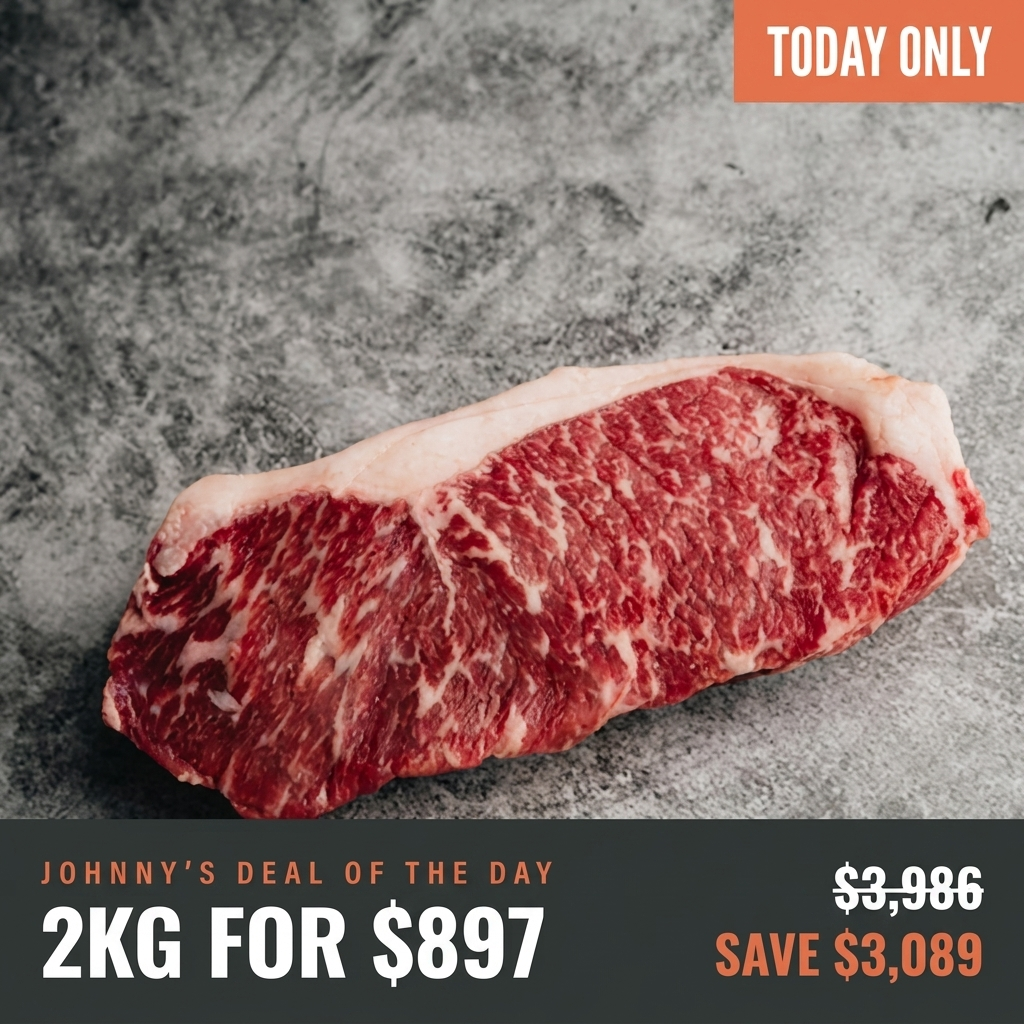
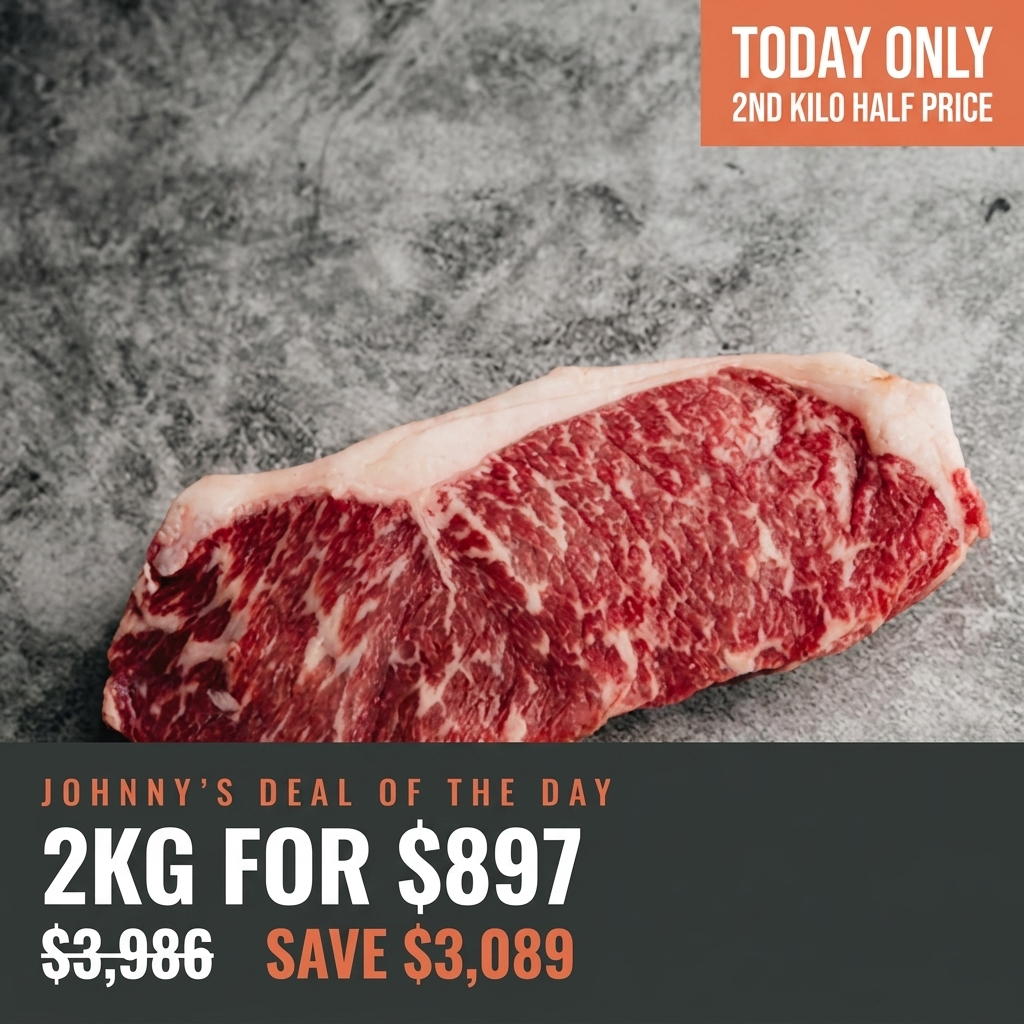
Update: Steak King DotD badges reserve the brand overlay corners
David asked for the top left and bottom right to come back empty - Steak
King drop their own discount roundel and certification logo there, and the
ACRES logo was landing on top of our struck-through price.

The value stack moves out of the bottom right and runs under the headline
inside the left 62%. Ribeye buy-2-get-1 goes to $996 per David's call on
7 Aug, which restores the paired mechanic read against the 3 Aug flash.

12 of 21 badges rebuilt; the other 9 keep the old layout for now.

diff --git a/steak-king/johnnys-deal-planner.html b/steak-king/johnnys-deal-planner.html
@@ -105,6 +105,12 @@
   .pd-val{list-style:none;margin:0 0 13px;padding:0;border-left:2px solid var(--coral)}
   .pd-val li{font-size:14.5px;line-height:1.45;color:var(--ink);font-weight:600;padding:3px 0 3px 11px}
   .pd-sell{font-size:14px;line-height:1.62;color:var(--ink-2);margin:0}
+  .ban-line{display:flex;align-items:center;gap:var(--s4);background:var(--coral);color:#fff;padding:9px 14px;margin-bottom:6px;flex-wrap:wrap}
+  .ban-line:last-child{margin-bottom:0}
+  .ban-txt b{display:block;font-family:'Fjalla One',sans-serif;font-size:16px;letter-spacing:.01em;line-height:1.15}
+  .ban-txt span{display:block;font-size:12px;opacity:.9;margin-top:1px}
+  .ban-ui{margin-left:auto;font-family:'Fjalla One',sans-serif;font-size:16px;letter-spacing:.06em;white-space:nowrap;flex:none}
+  .ban-cta{font-family:'Fjalla One',sans-serif;font-size:11px;letter-spacing:.06em;background:var(--ink);color:#fff;padding:8px 12px;white-space:nowrap;flex:none}
   .hero{border:1px solid var(--line);background:var(--card);margin-bottom:var(--s3)}
   .hero-img{padding:13px;background:var(--soft);display:flex;justify-content:center}
   .hero-img img{max-width:360px;width:100%;height:auto;display:block;border:1px solid var(--line)}
@@ -381,6 +387,8 @@
   <div class="wrap">
     <footer>
       <strong>Moving a deal:</strong> grab the handle on the left of any row and drag it up or down the table. Everything in between shifts along by one to close the gap &mdash; drag Tuesday's deal down to Friday and Wednesday, Thursday and Friday each move up a day. A deal pushed past the last available day drops into <em>Not scheduled</em> at the bottom, and can be dragged back in at any time. Moves are shared with everyone on this page within fifteen seconds, and sign-off and comments travel with the deal, not the date &mdash; approve something on the 5th, move it to the 12th, and it is still approved.<br><br>
+      <strong>How a deal is named:</strong> the customer meets the deal three times before they meet the price &mdash; on the homepage bar, on the collection tile, and at the top of the PDP &mdash; and all three now say the same thing in the same words. The rule is that the <em>mechanic comes first and the product comes second</em>. A shopper reading nothing but the product title has to know what they get and why it is a deal: <em>Buy 1kg Organic Angus Striploin, Get the 2nd Half Price</em>, not <em>The Organic Double</em>. Where there is no mechanic to name &mdash; a straight price drop or a bundle &mdash; the unit of sale leads instead, because the confusion that costs us the sale is a $735 price tag next to a photograph of one steak when the deal is two kilos. The headline on this page is now that same customer-facing line, so what David signs off is what the shopper reads. Prices stay out of the PDP title where Shopify already shows them; the badge carries the strike-through, the title carries the mechanic, the banner carries both.<br><br>
+      <strong>The homepage banner</strong> is where the programme actually lives &mdash; the site does the daily beat, email supports it once or twice a week. The bar itself is fixed furniture: the <em>Johnny's Deal of The Day</em> subline, the countdown and the CLAIM NOW button never change, and they sit directly above the free-shipping line so the two mechanics reinforce each other on every pageview. The only thing written each day is the headline, and it has room for about <strong>forty-five characters</strong> before it wraps on mobile. So it carries the mechanic in caps and the cut after it &mdash; <em>BUY 1KG GET 2ND 50% OFF on Organic Striploin</em> &mdash; and nothing else. No <em>today only</em>, because the countdown already says it. And it leads on <strong>the value, not the price</strong> &mdash; the percentage off RRP, which is the number that earns the click and the language the Steak King catalogue has always used (<em>50% Off &mdash;</em>, <em>65% Off &mdash;</em>). Percentages are floored, never rounded up, so the bar can never claim more than the tile. The four buy-one-get-second deals are the exception: their mechanic is already a percentage, and two competing percentages in one line reads as a mistake, so those keep the mechanic. <strong>The bar percentage and the tile ribbon are calculated from different places</strong> &mdash; ours from the compare-at in this plan, the tile's from whatever compare-at is actually set on the deal clone &mdash; so if they are not set to the same number the two disagree on screen. As at 6 August the live Organic Striploin clone carries a $980 compare-at against this plan's $1,960, and the tile is showing 25% where it should show 62%. Each deal ships its headline in the build spec, and the ladder days ship three, swapped at 12:00 and 17:00.<br><br>
       <strong>Hero images:</strong> each deal ships with its PDP hero already built &mdash; the real product photograph with the value laid over it, the deal price against the <strong>RRP</strong> and what you save. Compare-at is the product's maximum RRP in Shopify &mdash; not the everyday selling price &mdash; so the strike-through on the badge, the strike-through on the PDP and the value line in the copy all quote the same number. Copy it to the clipboard or download it straight from the deal view. They are generated from the plan itself, so the figures on a badge can never disagree with the figures on the page: run <span class="kbd">python3 scripts/build-deal-badges.py</span> after a price changes and the affected heroes rebuild. Headlines and the corner tab live in <span class="kbd">scripts/badge-copy.json</span>.<br><br><strong>Six SKUs still need an RRP set in Shopify.</strong> They carry no compare-at price at all, so their deals currently run on a <em>2&times; everyday</em> placeholder rather than a real RRP: Organic Grass Fed Angus Striploin 1kg (drives the Organic Double, its 20 Aug recycle and the 24 Aug ladder), Black Angus Bone-in Ribeye OP Rib Roast, Frozen Wagyu Diced Beef 1kg, Frozen Australian Lamb Shanks 2.2kg, MSC Certified Atlantic Cod Fillet 1kg and Australian Yellowfin Tuna Steaks. David to set a real RRP on each, then the compare figure and the hero badge both need rebuilding.<br><br>
       <strong>How to add a month:</strong> open this file and append one entry to the <span class="kbd">PLAN</span> object at the top of the script &mdash; a label, the block rows, and one entry per day, each with its own <span class="kbd">id</span>. Nothing else needs touching; the calendar, lookahead and build specs all read from it. The dates in <span class="kbd">PLAN</span> are only the starting order &mdash; once anyone drags a row, the running order is whatever the shared backend says it is.<br><br>
       <strong>Keyboard:</strong> <span class="kbd">&larr;</span> <span class="kbd">&rarr;</span> move a day &middot; <span class="kbd">T</span> jump to today &middot; tab to a drag handle and use <span class="kbd">&uarr;</span> <span class="kbd">&darr;</span> to move a deal without dragging. Every date is linkable &mdash; the URL updates as you click, so you can paste someone straight onto a specific day.<br><br>
@@ -422,7 +430,7 @@ const PLAN = {
     ],
     days: {
       '2026-08-03':{
-        id:'ribeye-drop', title:'The Ribeye Drop', mech:'Quantity Flash', tag:'proven',
+        id:'ribeye-drop', title:'3kg of USDA Choice Ribeye for $1,000', mech:'Quantity Flash', tag:'proven',
         img:IMG('files/USDAChoiceRibeye2.jpg'),
         price:'3kg for $1,000', vs:'USDA Choice Ribeye · $333/kg vs $448/kg everyday', margin:'38% margin',
         lines:[['Stock','1,240 units. <strong>Full-list send</strong> + site hero + WhatsApp.']],
@@ -432,10 +440,10 @@ const PLAN = {
           value:["RRP $2,688. You're $1,688 up.",
                  "Works out at $333 a kilo.",
                  "Back to full price at midnight."],
-          sell:"USDA Choice is what most steakhouses buy. Well marbled, hard to ruin, thick enough that you get a proper crust and the middle stays pink. It comes as three separate kilos, so cook one tonight and put the rest in the freezer."}, source:'Chilled USDA Choice Ribeye 1kg', clone:'Quantity Flash: USDA Choice Ribeye 3 × 1kg', price:'$1,000', compare:'$2,688'}
+          sell:"USDA Choice is what most steakhouses buy. Well marbled, hard to ruin, thick enough that you get a proper crust and the middle stays pink. It comes as three separate kilos, so cook one tonight and put the rest in the freezer."}, source:'Chilled USDA Choice Ribeye 1kg', banner:['62% OFF 3kg of USDA Choice Ribeye'], clone:'3kg of USDA Choice Ribeye — $1,000 Today Only', price:'$1,000', compare:'$2,688'}
       },
       '2026-08-04':{
-        id:'lamb-rack-flash', title:'The Lamb Rack Flash', mech:'Quantity Flash',
+        id:'lamb-rack-flash', title:'Three Lamb Racks for $799', mech:'Quantity Flash',
         img:IMG('files/image_11.png'),
         price:'3 racks (2.4kg) for $799', vs:'Mount Schanck Frenched Lamb Rack 800g · $333/kg vs $435/kg', margin:'46% margin',
         lines:[['Stock','321 units.']],
@@ -444,10 +452,10 @@ const PLAN = {
           value:["RRP $2,088. You're $1,289 up.",
                  "$333 a kilo across the three racks.",
                  "Tomorrow it's back."],
-          sell:"Mount Schanck, and they come Frenched, so the bones are already scraped clean. Nothing to do but season them and get them in the oven. One rack is four decent cutlets. Three will do a table of twelve without anyone going short."}, source:'Chilled Mount Schanck Bone-In Frenched Lamb Rack Cap Off 800g', clone:'Quantity Flash: Frenched Lamb Rack × 3', price:'$799', compare:'$2,088'}
+          sell:"Mount Schanck, and they come Frenched, so the bones are already scraped clean. Nothing to do but season them and get them in the oven. One rack is four decent cutlets. Three will do a table of twelve without anyone going short."}, source:'Chilled Mount Schanck Bone-In Frenched Lamb Rack Cap Off 800g', banner:['61% OFF 3 Frenched Lamb Racks'], clone:'3 Frenched Lamb Racks, 2.4kg — $799 Today Only', price:'$799', compare:'$2,088'}
       },
       '2026-08-05':{
-        id:'organic-double', title:'The Organic Double', mech:'Buy 1, Get 2nd 50%', tag:'proven',
+        id:'organic-double', title:'Buy a Kilo of Organic Striploin, Get the Second Half Price', mech:'Buy 1, Get 2nd 50%', tag:'proven',
         img:IMG('files/acresstriploin.png'),
         price:'2kg for $735', vs:'Organic Grass Fed Angus Striploin · $368/kg vs $490/kg · + free steak knives', margin:'60% margin',
         lines:[['Stock','824 units.']],
@@ -457,10 +465,10 @@ const PLAN = {
                  "$368 a kilo.",
                  "Steak knives free with anything you order today.",
                  "Ends midnight."],
-          sell:"Certified organic and grass fed, so it's leaner than the grain fed stuff and tastes more like beef. Don't cook it slow. Hot pan, quick sear, then leave it alone for five minutes before you cut into it."}, source:'Chilled Organic Grass Fed Angus Striploin 1kg', clone:'B1G2nd-50%: Organic Angus Striploin', price:'$735', compare:'$1,960'}
+          sell:"Certified organic and grass fed, so it's leaner than the grain fed stuff and tastes more like beef. Don't cook it slow. Hot pan, quick sear, then leave it alone for five minutes before you cut into it."}, source:'Chilled Organic Grass Fed Angus Striploin 1kg', banner:['BUY 1KG GET 2ND 50% OFF on Organic Striploin'], clone:'Buy 1kg Organic Angus Striploin, Get the 2nd Half Price — 2kg $735', price:'$735', compare:'$1,960'}
       },
       '2026-08-06':{
-        id:'wagyu-3kg', title:'Three Kilos of Wagyu', mech:'Quantity Flash', tag:'proven',
+        id:'wagyu-3kg', title:'3kg of Wagyu Ribeye for $899', mech:'Quantity Flash', tag:'proven',
         img:IMG('files/RSM3-4Ribeye_beecdb4f-4ca6-433f-a4fb-9fb360a8e1be.jpg'),
         price:'3kg for $899', vs:'Chilled Wagyu M3-4 Ribeye · $300/kg vs $398/kg everyday', margin:'30% margin',
         lines:[['Stock','4,579 units — the biggest beef overhang on the account.']],
@@ -469,10 +477,10 @@ const PLAN = {
           value:["RRP $3,978. You're $3,079 up.",
                  "$300 a kilo.",
                  "Price goes back at midnight."],
-          sell:"M3-4 is where the marbling starts to show. Enough fat running through it to keep itself basted, not so much that one steak finishes you off. Three separate kilos, so you don't have to cook it all at once."}, source:'Chilled Wagyu M3-4 Ribeye 1kg', clone:'Quantity Flash: Wagyu M3-4 Ribeye 3 × 1kg', price:'$899', compare:'$3,978'}
+          sell:"M3-4 is where the marbling starts to show. Enough fat running through it to keep itself basted, not so much that one steak finishes you off. Three separate kilos, so you don't have to cook it all at once."}, source:'Chilled Wagyu M3-4 Ribeye 1kg', banner:['77% OFF 3kg of Wagyu M3-4 Ribeye'], clone:'3kg of Wagyu M3-4 Ribeye — $899 Today Only', price:'$899', compare:'$3,978'}
       },
       '2026-08-07':{
-        id:'picanha', title:'Picanhas, On Your Table', mech:'Price Drop · Story',
+        id:'picanha', title:'The Whole Picanha, 2.1kg for $899', mech:'Price Drop · Story',
         img:IMG('files/RumpCapChimichurri1_1.png'),
         price:'$899', vs:'Whole M6-7 Wagyu Rump Cap 2.1kg w/ chimichurri · vs $1,099 everyday', margin:'61% margin',
         lines:[['Stock','77 units — thin. Nothing is capped, so it sells out when it sells out. <strong>Beat the Clock LMT at 7pm.</strong>']],
@@ -481,23 +489,23 @@ const PLAN = {
           value:["RRP $2,196. You're $1,297 up.",
                  "2.1kg, and the chimichurri's in the box.",
                  "One day."],
-          sell:"This is what the Brazilians put on the grill. The fat cap on top melts down through the meat while it cooks, so there isn't much for you to do. Score the fat, salt it heavily, fat side down first. Carve it across the grain once it's rested."}, source:"Picanha's Chilled Whole M6-7 Wagyu Rump Cap 2.1kg", clone:'Price Drop: Whole M6-7 Picanha', price:'$899', compare:'$2,196'}
+          sell:"This is what the Brazilians put on the grill. The fat cap on top melts down through the meat while it cooks, so there isn't much for you to do. Score the fat, salt it heavily, fat side down first. Carve it across the grain once it's rested."}, source:"Picanha's Chilled Whole M6-7 Wagyu Rump Cap 2.1kg", banner:['59% OFF the Whole 2.1kg Picanha'], clone:'Whole Wagyu Picanha 2.1kg with Chimichurri — $899 Today Only', price:'$899', compare:'$2,196'}
       },
       '2026-08-08':{
-        id:'ribeye-b2g1f', title:'Two Kilos, Have a Third', mech:'Buy 2, Get 1 Free',
+        id:'ribeye-b2g1f', title:'Buy 2kg of Ribeye, Get the Third Kilo Free', mech:'Buy 2, Get 1 Free',
         img:IMG('files/USDAChoiceRibeye2.jpg'),
-        price:'3kg for $896', vs:'USDA Choice Ribeye · buy 2kg, get 1kg free · $299/kg vs $448/kg', margin:'31% margin',
+        price:'3kg for $996', vs:'USDA Choice Ribeye · buy 2kg, get 1kg free · $332/kg vs $448/kg', margin:'38% margin',
         lines:[['Stock','1,240 units.']],
-        why:'Buy-two-get-one-free was the weakest of the three July tests at 2.5×, but it ran on the hanger — a cut with a fraction of this one\'s demand. Same cut, five days after the 3 Aug flash. The clean read is gone — the flash now opens at $1,000 and this lands at $896, so any difference on the day is price and mechanic together, not mechanic alone.',
-        flag:'The 3 Aug price change broke the A/B. To recover a clean mechanic read, either move this to $1,000 (buy 2kg at $500/kg, get the third free) or accept it as a standalone offer and re-run the paired test in September. Hani\'s call, needs David\'s.',
+        why:'Buy-two-get-one-free was the weakest of the three July tests at 2.5×, but it ran on the hanger — a cut with a fraction of this one\'s demand. Same cut, five days after the 3 Aug flash, and now within $4 of it: the flash opens at $1,000, this lands at $996. Price is held, so whatever moves on the day is the mechanic on its own — the paired read the July test never got.',
+        flag:'Settled — David took the price up to $996 on 7 Aug, which is the $1,000 option and restores the paired mechanic read against the 3 Aug flash. Shopify draft <em>USDA Choice Ribeye · buy 2kg, get 1kg free</em> still sits at $896 and has to be moved to $996 before this goes live.',
         build:{desc:{hook:"BUY TWO KILOS. THE THIRD ONE'S FREE.",
-          value:["Three kilos for $896. RRP $2,688.",
-                 "$299 a kilo.",
+          value:["Three kilos for $996. RRP $2,688.",
+                 "$332 a kilo.",
                  "Today only."],
-          sell:"Same USDA Choice ribeye we sell all year. Well marbled, cut thick, difficult to get wrong. Three separate kilos, so freeze whatever you're not using tonight."}, source:'Chilled USDA Choice Ribeye 1kg', clone:'B2G1F: USDA Choice Ribeye', price:'$896', compare:'$2,688'}
+          sell:"Same USDA Choice ribeye we sell all year. Well marbled, cut thick, difficult to get wrong. Three separate kilos, so freeze whatever you're not using tonight."}, source:'Chilled USDA Choice Ribeye 1kg', banner:['BUY 2KG GET 1KG FREE on USDA Choice Ribeye'], clone:'Buy 2kg USDA Choice Ribeye, Get the 3rd Kilo Free — 3kg $996', price:'$996', compare:'$2,688'}
       },
       '2026-08-09':{
-        id:'sunday-roast', title:'The Sunday Roast', mech:'Price Drop · New Category', tag:'new',
+        id:'sunday-roast', title:'A 2.5kg Leg of Lamb for $749', mech:'Price Drop · New Category', tag:'new',
         img:IMG('files/image_7_e4e01f75-a361-4ae6-bd4c-0ab45b81b877.png'),
         price:'$749', vs:'Mount Schanck Boneless Lamb Leg 2.5kg · vs $868 everyday · $300/kg', margin:'63% margin',
         lines:[['Stock','69 units. Sits $251 short of free shipping, so push the add-on rail.']],
@@ -506,10 +514,10 @@ const PLAN = {
           value:["RRP $1,440. You're $691 up.",
                  "$300 a kilo.",
                  "Gone at midnight."],
-          sell:"Mount Schanck, boned out, so you're not carving around anything. Season it, roast it, let it sit twenty minutes, then slice. It'll feed eight properly, or four with enough left over for sandwiches on Monday."}, source:'Chilled Mount Schanck Boneless Lamb Leg 2.5kg', clone:'Price Drop: Boneless Lamb Leg 2.5kg', price:'$749', compare:'$1,440'}
+          sell:"Mount Schanck, boned out, so you're not carving around anything. Season it, roast it, let it sit twenty minutes, then slice. It'll feed eight properly, or four with enough left over for sandwiches on Monday."}, source:'Chilled Mount Schanck Boneless Lamb Leg 2.5kg', banner:['47% OFF a 2.5kg Leg of Lamb'], clone:'2.5kg Boneless Leg of Lamb — $749 Today Only', price:'$749', compare:'$1,440'}
       },
       '2026-08-10':{
-        id:'rib-roast', title:'The Four-Kilo Rib Roast', mech:'Price Drop · Big Ticket',
+        id:'rib-roast', title:'A 4kg Bone-in Rib Roast for $1,188', mech:'Price Drop · Big Ticket',
         img:IMG('products/OPRibRaw.jpg'),
         price:'$1,188', vs:'Black Angus Bone-in Ribeye OP Rib Roast 3.7–4.0kg · vs $1,888 · 37% off', margin:'45% margin',
         lines:[['Stock','548 units. <strong>Full-list send</strong> + <strong>LMT at 7pm</strong> + Back to School pre-announce in the same email.']],
@@ -518,10 +526,10 @@ const PLAN = {
           value:["RRP $3,776. You're $2,588 up.",
                  "Delivery's free on this one.",
                  "Back to full price tomorrow."],
-          sell:"This is the one you put in the middle of the table. Four ribs, cap left on, bones still in, which gives it flavour and gives you something to hold while you carve. Low oven, hot blast at the end, then rest it properly. Feeds ten to twelve."}, source:'Chilled Black Angus Bone-in Ribeye OP Rib Roast 3.7-4.0kg', clone:'Price Drop: OP Rib Roast', price:'$1,188', compare:'$3,776'}
+          sell:"This is the one you put in the middle of the table. Four ribs, cap left on, bones still in, which gives it flavour and gives you something to hold while you carve. Low oven, hot blast at the end, then rest it properly. Feeds ten to twelve."}, source:'Chilled Black Angus Bone-in Ribeye OP Rib Roast 3.7-4.0kg', banner:['68% OFF a 4kg Bone-in Rib Roast'], clone:'4kg Bone-in Ribeye Rib Roast — $1,188 Today Only', price:'$1,188', compare:'$3,776'}
       },
       '2026-08-14':{
-        id:'duck-box', title:'The Duck Box', mech:'Bundle Box · New Category', tag:'new',
+        id:'duck-box', title:'The Duck Box — Four Items for $749', mech:'Bundle Box · New Category', tag:'new',
         img:IMG('files/Duck_breast.png'),
         price:'$749', vs:'Whole duck + breasts + legs + duck fat · $1,040 apart · 28% off', margin:'73% margin',
         lines:[['Stock','201 / 124 / 123 / 291.'],['Send','<strong>Site + WhatsApp only. No email.</strong> First day back after three days of full-list flash-sale sends — the list is the tired asset, not the offer.']],
@@ -530,10 +538,10 @@ const PLAN = {
           value:["RRP $1,985 across the four.",
                  "Whole free range duck, a kilo of breasts, a kilo of legs, two tubs of duck fat.",
                  "Today only."],
-          sell:"Roast the bird. Sear the breasts and stop while they're still pink. The legs want to sit in the fat on a low heat for a couple of hours. Whatever fat's left, keep it for your potatoes. If you've only ever bought beef off us, this is a good place to start."}, source:'Whole Duck + Duck Breasts 1kg + Duck Legs 1kg + Duck Fat 2×500g', clone:'Bundle: The Duck Box', price:'$749', compare:'$1,985'}
+          sell:"Roast the bird. Sear the breasts and stop while they're still pink. The legs want to sit in the fat on a low heat for a couple of hours. Whatever fat's left, keep it for your potatoes. If you've only ever bought beef off us, this is a good place to start."}, source:'Whole Duck + Duck Breasts 1kg + Duck Legs 1kg + Duck Fat 2×500g', banner:['62% OFF the Duck Box, 4 Items'], clone:'The Duck Box — Whole Duck, Breasts, Legs + Duck Fat, $749', price:'$749', compare:'$1,985'}
       },
       '2026-08-15':{
-        id:'rump-cap-recycle', title:'The Rump Cap, Again', mech:'Buy 1, Get 2nd 50% · Recycle', tag:'proven',
+        id:'rump-cap-recycle', title:'Buy One Rump Cap, Get the Second Half Price', mech:'Buy 1, Get 2nd 50% · Recycle', tag:'proven',
         img:IMG('files/RumpCapTrim.webp'),
         price:'2 caps for $837', vs:'Black Angus M2-3 Rump Cap + free chimichurri · the 18 July deal, verbatim', margin:'33% margin',
         lines:[['Stock','737 units.']],
@@ -542,10 +550,10 @@ const PLAN = {
           value:["Two for $837. RRP $2,232.",
                  "Chimichurri with both.",
                  "Ends midnight."],
-          sell:"Rump cap and picanha are the same thing. Fat cap on top that bastes it while it cooks, thick enough to carve into steaks after. Score the fat, salt it, fat side down first."}, source:'Chilled Black Angus M2-3 Rump Cap', clone:'B1G2nd-50%: Black Angus M2-3 Rump Cap', price:'$837', compare:'$2,232'}
+          sell:"Rump cap and picanha are the same thing. Fat cap on top that bastes it while it cooks, thick enough to carve into steaks after. Score the fat, salt it, fat side down first."}, source:'Chilled Black Angus M2-3 Rump Cap', banner:['BUY 1 GET 2ND 50% OFF on Angus Rump Cap'], clone:'Buy 1 Rump Cap, Get the 2nd Half Price — 2 Caps for $837', price:'$837', compare:'$2,232'}
       },
       '2026-08-16':{
-        id:'weeknight-box', title:'The Weeknight Box', mech:'Bundle Box',
+        id:'weeknight-box', title:'The Weeknight Box — Three Items for $749', mech:'Bundle Box',
         img:IMG('files/WhatsAppImage2026-07-23at13.28.00.jpg'),
         price:'$749', vs:'Premium Trio + wagyu mince 1kg + whole salmon fillet · $1,074 apart · 30% off', margin:'38% margin',
         lines:[['Stock','572 / 959 / 4,684. Deep on all three.']],
@@ -554,10 +562,10 @@ const PLAN = {
           value:["RRP $2,506 across the three.",
                  "The Premium Trio, a kilo of full blood wagyu mince, a whole Norwegian salmon fillet.",
                  "One day only."],
-          sell:"Burgers one night, something slow with the mince another, fish twice. Nothing in here needs a plan or a thermometer or an afternoon free."}, source:'Steak King Premium Trio + Wagyu Full Blood Mince 1kg + Whole Norwegian Salmon Fillet', clone:'Bundle: The Weeknight Box', price:'$749', compare:'$2,506'}
+          sell:"Burgers one night, something slow with the mince another, fish twice. Nothing in here needs a plan or a thermometer or an afternoon free."}, source:'Steak King Premium Trio + Wagyu Full Blood Mince 1kg + Whole Norwegian Salmon Fillet', banner:['70% OFF the Weeknight Box, 3 Items'], clone:'The Weeknight Box — Premium Trio, Wagyu Mince + Whole Salmon, $749', price:'$749', compare:'$2,506'}
       },
       '2026-08-17':{
-        id:'m67-twenty-only', title:'The M6-7 Double', mech:'Buy 1, Get 2nd 50%', tag:'proven',
+        id:'m67-twenty-only', title:'Buy a Kilo of M6-7 Wagyu, Get the Second Half Price', mech:'Buy 1, Get 2nd 50%', tag:'proven',
         img:IMG('files/M6-7Striploin1_8689d3c3-54af-4991-a110-3ccd373186b7.jpg'),
         price:'2kg for $897', vs:'Chilled Wagyu M6-7 Striploin · $449/kg vs $598/kg', margin:'32% margin',
         lines:[['Stock','49 units — the tightest of the month. <strong>Uncapped, so it will sell out well before midnight. Brief support.</strong>']],
@@ -566,10 +574,10 @@ const PLAN = {
           value:["Two kilos for $897. RRP $3,986.",
                  "$449 a kilo.",
                  "Ends midnight."],
-          sell:"M6-7 is a real step up from M4-5. More fat through the muscle, and it goes soft in a way people usually end up calling buttery. Cook it hotter and for less time than you think you should."}, source:'Chilled Wagyu M6-7 Striploin 1kg', clone:'B1G2nd-50%: Wagyu M6-7 Striploin', price:'$897', compare:'$3,986'}
+          sell:"M6-7 is a real step up from M4-5. More fat through the muscle, and it goes soft in a way people usually end up calling buttery. Cook it hotter and for less time than you think you should."}, source:'Chilled Wagyu M6-7 Striploin 1kg', banner:['BUY 1KG GET 2ND 50% OFF on M6-7 Striploin'], clone:'Buy 1kg of M6-7 Wagyu Striploin, Get the 2nd Half Price — 2kg $897', price:'$897', compare:'$3,986'}
       },
       '2026-08-18':{
-        id:'wagyu-3kg-recycle', title:'Three Kilos of Wagyu', mech:'Quantity Flash · Recycle', tag:'proven',
+        id:'wagyu-3kg-recycle', title:'3kg of Wagyu Ribeye for $899, Back for One Day', mech:'Quantity Flash · Recycle', tag:'proven',
         img:IMG('files/RSM3-4Ribeye_beecdb4f-4ca6-433f-a4fb-9fb360a8e1be.jpg'),
         price:'3kg for $899', vs:'Chilled Wagyu M3-4 Ribeye · $300/kg · second run, 12 days on', margin:'30% margin',
         lines:[['Stock','4,579 units.']],
@@ -578,10 +586,10 @@ const PLAN = {
           value:["RRP $3,978. $3,079 off.",
                  "$300 a kilo.",
                  "Tonight only."],
-          sell:"M3-4 is where the marbling starts to show. Enough fat through it to keep itself basted, without one steak finishing you off. Three separate kilos."}, source:'Chilled Wagyu M3-4 Ribeye 1kg', clone:'Quantity Flash: Wagyu M3-4 Ribeye 3 × 1kg', price:'$899', compare:'$3,978'}
+          sell:"M3-4 is where the marbling starts to show. Enough fat through it to keep itself basted, without one steak finishing you off. Three separate kilos."}, source:'Chilled Wagyu M3-4 Ribeye 1kg', banner:['77% OFF 3kg of Wagyu M3-4 Ribeye'], clone:'3kg of Wagyu M3-4 Ribeye — $899, Back for One Day', price:'$899', compare:'$3,978'}
       },
       '2026-08-19':{
-        id:'low-and-slow', title:'The Low & Slow Box', mech:'Bundle Box',
+        id:'low-and-slow', title:'The Low &amp; Slow Box — Three Braising Cuts for $849', mech:'Bundle Box',
         img:IMG('files/RawM9_BeefCheeks2.webp'),
         price:'$849', vs:'Wagyu diced beef + M9+ beef cheeks + lamb shanks 2.2kg · $1,321 apart · 36% off', margin:'45% margin',
         lines:[['Stock','the beef cheeks run dry at <strong>28 boxes</strong>. Not a cap, a ceiling — it sells out when it sells out.']],
@@ -590,10 +598,10 @@ const PLAN = {
           value:["RRP $2,642 across the three.",
                  "Wagyu diced beef, M9+ beef cheeks, 2.2kg of lamb shanks.",
                  "Price goes back tonight."],
-          sell:"All three are braising cuts, so don't plan on eating any of it tonight. The cheeks take about four hours before they'll fall apart. Shanks about the same. The diced beef goes in anything with a lid on it. Buy it now, cook it Sunday."}, source:'Frozen Wagyu Diced Beef 1kg + Chilled Wagyu M9+ Beef Cheeks 1kg + Lamb Shanks 2.2kg', clone:'Bundle: The Low & Slow Box', price:'$849', compare:'$2,642'}
+          sell:"All three are braising cuts, so don't plan on eating any of it tonight. The cheeks take about four hours before they'll fall apart. Shanks about the same. The diced beef goes in anything with a lid on it. Buy it now, cook it Sunday."}, source:'Frozen Wagyu Diced Beef 1kg + Chilled Wagyu M9+ Beef Cheeks 1kg + Lamb Shanks 2.2kg', banner:['67% OFF the Low & Slow Box, 3 Cuts'], clone:'The Low & Slow Box — Wagyu Diced Beef, M9+ Cheeks + Lamb Shanks, $849', price:'$849', compare:'$2,642'}
       },
       '2026-08-20':{
-        id:'organic-double-recycle', title:'The Organic Double, Again', mech:'Buy 1, Get 2nd 50% · Recycle', tag:'proven',
+        id:'organic-double-recycle', title:'Buy a Kilo of Organic Striploin, Get the Second Half Price — Back Again', mech:'Buy 1, Get 2nd 50% · Recycle', tag:'proven',
         img:IMG('files/acresstriploin.png'),
         price:'2kg for $735', vs:'Organic Grass Fed Angus Striploin · $368/kg · + free steak knives', margin:'60% margin',
         lines:[['Stock','824 units · email carries the first <strong>"tomorrow works differently"</strong> tease.']],
@@ -603,10 +611,10 @@ const PLAN = {
                  "$368 a kilo.",
                  "Steak knives free with anything today.",
                  "Ends midnight."],
-          sell:"Certified organic, grass fed, leaner than grain fed and it tastes more like beef. Hot pan, quick sear, then let it rest before you cut into it."}, source:'Chilled Organic Grass Fed Angus Striploin 1kg', clone:'B1G2nd-50%: Organic Angus Striploin', price:'$735', compare:'$1,960'}
+          sell:"Certified organic, grass fed, leaner than grain fed and it tastes more like beef. Hot pan, quick sear, then let it rest before you cut into it."}, source:'Chilled Organic Grass Fed Angus Striploin 1kg', banner:['BUY 1KG GET 2ND 50% OFF on Organic Striploin'], clone:'Buy 1kg Organic Angus Striploin, Get the 2nd Half Price — Back for One Day', price:'$735', compare:'$1,960'}
       },
       '2026-08-21':{
-        id:'ladder-tbone', title:'Beat the Clock, or Pay the Next Tier', mech:'Beat the Deal · NEW MECHANIC', tag:'new', ladder:true,
+        id:'ladder-tbone', title:'3kg of T-Bone — $799 Now, $899 at Midday, $999 from 5pm', mech:'Beat the Deal · NEW MECHANIC', tag:'new', ladder:true,
         img:IMG('files/image_8.png'),
         tiers:[['$799','09:00–12:00',true],['$899','12:00–17:00',false],['$999','17:00–close',false]],
         lines:[
@@ -619,10 +627,10 @@ const PLAN = {
           value:["Three kilos of Black Angus T-bone and porterhouse.",
                  "RRP $2,568. Buy before midday and you're $1,769 up.",
                  "The price only goes one way. There's no discount at the end of the day."],
-          sell:"A T-bone is two steaks in one. Strip on one side of the bone, fillet on the other. The longer you think about it, the more it costs you."}, source:'Chilled Black Angus T-Bone / Porterhouse 1kg (currently DRAFT)', clone:'Beat the Deal: T-Bone 3kg — price rises through the day', price:'$799 → $899 → $999', compare:'$2,568'}
+          sell:"A T-bone is two steaks in one. Strip on one side of the bone, fillet on the other. The longer you think about it, the more it costs you."}, source:'Chilled Black Angus T-Bone / Porterhouse 1kg (currently DRAFT)', banner:['68% OFF 3kg of T-Bone, RISES AT MIDDAY', '64% OFF 3kg of T-Bone, RISES AT 5PM', '61% OFF 3kg of T-Bone, LAST PRICE TODAY'], clone:'3kg Black Angus T-Bone — the Price Rises at Midday and Again at 5pm', price:'$799 → $899 → $999', compare:'$2,568'}
       },
       '2026-08-22':{
-        id:'picanha-recycle', title:'Picanhas, On Your Table', mech:'Price Drop · Recycle',
+        id:'picanha-recycle', title:'The Whole Picanha, 2.1kg for $899, Back for One Day', mech:'Price Drop · Recycle',
         img:IMG('files/RumpCapChimichurri1_1.png'),
         price:'$899', vs:'Whole M6-7 Wagyu Rump Cap 2.1kg · second run, 15 days on', margin:'61% margin',
         lines:[['Stock','77 less whatever the 7 Aug run took — <strong>confirm before committing</strong>; if it is thin, swap in the Lamb Rack Flash.']],
@@ -631,10 +639,10 @@ const PLAN = {
           value:["RRP $2,196. You're $1,297 up.",
                  "2.1kg, and the chimichurri's in the box.",
                  "Tonight only."],
-          sell:"What the Brazilians put on the grill. The fat cap melts down through the meat as it cooks. Score the fat, salt it heavily, fat side down first, then carve across the grain."}, source:"Picanha's Chilled Whole M6-7 Wagyu Rump Cap 2.1kg", clone:'Price Drop: Whole M6-7 Picanha', price:'$899', compare:'$2,196'}
+          sell:"What the Brazilians put on the grill. The fat cap melts down through the meat as it cooks. Score the fat, salt it heavily, fat side down first, then carve across the grain."}, source:"Picanha's Chilled Whole M6-7 Wagyu Rump Cap 2.1kg", banner:['59% OFF the Whole 2.1kg Picanha'], clone:'Whole Wagyu Picanha 2.1kg with Chimichurri — $899, Back for One Day', price:'$899', compare:'$2,196'}
       },
       '2026-08-23':{
-        id:'wagyu-double', title:'The Wagyu Double', mech:'Buy 1, Get 2nd 50%', tag:'proven',
+        id:'wagyu-double', title:'Buy a Kilo of Wagyu Striploin, Get the Second Half Price', mech:'Buy 1, Get 2nd 50%', tag:'proven',
         img:IMG('products/Wagyu-Striploin-4-5-paper-wpp1616472807688_45cbe001-bf0c-44a2-a774-299839385837.jpg'),
         price:'2kg for $747', vs:'Rangers Station Wagyu M4-5 Striploin · $374/kg vs $498/kg · + free steak knives · moved from 3 Aug', margin:'43% margin',
         lines:[['Stock','128 units on the last count · <strong>recount before build.</strong>']],
@@ -645,10 +653,10 @@ const PLAN = {
                  "$374 a kilo.",
                  "Steak knives free with anything today.",
                  "Closes at midnight."],
-          sell:"Rangers Station M4-5. This is the grade where wagyu starts tasting like wagyu and you can still get through a whole steak."}, source:'Chilled Rangers Station Wagyu M4-5 Striploin 1kg', clone:'B1G2nd-50%: Wagyu M4-5 Striploin', price:'$747', compare:'$2,256'}
+          sell:"Rangers Station M4-5. This is the grade where wagyu starts tasting like wagyu and you can still get through a whole steak."}, source:'Chilled Rangers Station Wagyu M4-5 Striploin 1kg', banner:['BUY 1KG GET 2ND 50% OFF on M4-5 Striploin'], clone:'Buy 1kg of Wagyu M4-5 Striploin, Get the 2nd Half Price — 2kg $747', price:'$747', compare:'$2,256'}
       },
       '2026-08-24':{
-        id:'ladder-organic', title:'The Last Deal Before the Emporium', mech:'Beat the Deal · Run 2', tag:'new', ladder:true,
+        id:'ladder-organic', title:'2kg of Organic Striploin — $699 Now, $799 at Midday, $899 from 5pm', mech:'Beat the Deal · Run 2', tag:'new', ladder:true,
         img:IMG('files/acresstriploin.png'),
         tiers:[['$699','09:00–12:00',true],['$799','12:00–17:00',false],['$899','17:00–close',false]],
         lines:[
@@ -660,12 +668,12 @@ const PLAN = {
           value:["Two kilos of certified organic grass fed Angus striploin.",
                  "RRP $1,960. Buy before midday and you're $1,261 up.",
                  "The price only goes up. This is the last deal before the Meat Emporium opens."],
-          sell:"Organic, grass fed, and the leanest striploin we carry. Hot pan, short cook, don't walk away from it."}, source:'Chilled Organic Grass Fed Angus Striploin 1kg', clone:'Beat the Deal: Organic Angus Striploin 2kg', price:'$699 → $799 → $899', compare:'$1,960'}
+          sell:"Organic, grass fed, and the leanest striploin we carry. Hot pan, short cook, don't walk away from it."}, source:'Chilled Organic Grass Fed Angus Striploin 1kg', banner:['64% OFF 2kg Organic Striploin, RISES MIDDAY', '59% OFF 2kg Organic Striploin, RISES AT 5PM', '54% OFF 2kg Organic Striploin, LAST PRICE'], clone:'2kg Organic Angus Striploin — the Price Rises at Midday and Again at 5pm', price:'$699 → $799 → $899', compare:'$1,960'}
       }
     },
     parked: [
       {
-        id:'fishmongers-box', title:"The Fishmonger's Box", mech:'Bundle Box',
+        id:'fishmongers-box', title:"The Fishmonger's Box — Four Fish for $749", mech:'Bundle Box',
         img:IMG('files/Tasmanian-Salmon-Fillets.jpg'),
         price:'$749', vs:'Salmon fillet + MSC cod + yellowfin tuna + barramundi · $1,172 apart · 36% off', margin:'39% margin',
         lines:[['Stock','4,684 salmon fillets alone — the deepest single overhang on the account.'],['Gate','<strong>First bundle of the month.</strong> Needs Johnny\'s sign-off on pick-and-pack before this goes live.']],
@@ -674,10 +682,10 @@ const PLAN = {
           value:["RRP $2,418 across the four.",
                  "Whole Norwegian salmon fillet, a kilo of MSC cod, four yellowfin tuna steaks, a kilo of barramundi.",
                  "All frozen, so there's no rush to eat it."],
-          sell:"A week of dinners that aren't beef. Cod in the pan, tuna on the grill, salmon in the oven. The barramundi will take either."}, source:'Norwegian Salmon Fillet + MSC Cod 1kg + Yellowfin Tuna Steaks + Barramundi Steaks', clone:"Bundle: The Fishmonger's Box", price:'$749', compare:'$2,418'}
+          sell:"A week of dinners that aren't beef. Cod in the pan, tuna on the grill, salmon in the oven. The barramundi will take either."}, source:'Norwegian Salmon Fillet + MSC Cod 1kg + Yellowfin Tuna Steaks + Barramundi Steaks', banner:["69% OFF the Fishmonger's Box, 4 Fish"], clone:"The Fishmonger's Box — Salmon, Cod, Tuna + Barramundi, $749", price:'$749', compare:'$2,418'}
       },
       {
-        id:'taster-box', title:'The Taster Box', mech:'Bundle Box · Acquisition',
+        id:'taster-box', title:'The Taster Box — Every Grade We Carry, $749', mech:'Bundle Box · Acquisition',
         img:IMG('files/Duck_breast.png'),
         price:'~$749', vs:'The new mixed-grade taster box — or recycle The Duck Box at $749', margin:'73% on the fallback',
         lines:[['Dependency','the mixed-grade taster box is on David and Jay\'s board from the 14 July internal. <strong>Confirm by Fri 15 Aug</strong> or default to the duck.']],
@@ -686,7 +694,7 @@ const PLAN = {
           value:["[CONFIRM PRICE AND CONTENTS BEFORE BUILD]",
                  "Every grade we carry, side by side, in one order.",
                  "One day only."],
-          sell:"It does one thing: lets you taste the grades against each other without buying a kilo of each. Cook them the same way on the same night and you'll see where your money goes."}, source:'New mixed-grade taster box (TBC) — fallback: The Duck Box', clone:'Bundle: The Taster Box', price:'~$749', compare:'TBC'}
+          sell:"It does one thing: lets you taste the grades against each other without buying a kilo of each. Cook them the same way on the same night and you'll see where your money goes."}, source:'New mixed-grade taster box (TBC) — fallback: The Duck Box', banner:['[%] OFF the Taster Box — confirm price first'], clone:'The Taster Box — Every Grade We Carry, Side by Side, $749', price:'~$749', compare:'TBC'}
       }
     ]
   },
@@ -1082,6 +1090,18 @@ function renderFocus(){
           <div><b>Price</b><span>${b.price||'—'}</span></div>
           <div><b>Compare at</b><span>${b.compare||'—'}</span></div>
         </div>
+        ${(b.banner&&b.banner.length)?`<div class="pdp">
+          <div class="pdp-h"><b>Homepage banner</b><span>the live deal bar &mdash; headline only, the subline and timer are fixed</span>
+            <button class="abtn push" id="banBtn">
+              <svg viewBox="0 0 24 24" fill="none" stroke="currentColor" stroke-width="2" stroke-linecap="round"><rect x="9" y="9" width="13" height="13" rx="1"/><path d="M5 15H4a1 1 0 01-1-1V4a1 1 0 011-1h10a1 1 0 011 1v1"/></svg>
+              Copy
+            </button>
+            <span class="copied" id="banCopied">Copied</span>
+          </div>
+          <div class="pdp-body">
+            ${b.banner.map(l=>`<div class="ban-line"><div class="ban-txt"><b>${esc(l)}</b><span>Johnny's Deal of The Day</span></div><span class="ban-ui">00 : 00 : 00</span><span class="ban-cta">CLAIM NOW</span></div>`).join('')}
+          </div>
+        </div>`:''}
         <div class="hero" id="heroBox">
           <div class="pdp-h"><b>PDP hero image</b><span>first image on the deal PDP</span>
             <button class="abtn push" id="heroCopy">
@@ -1114,6 +1134,7 @@ function renderFocus(){
           <li>Paste the product description above into the PDP body.</li>
           <li>Set the hero above as the first image on the PDP.</li>
           <li><strong>Do not cap the quantity.</strong> Every deal is limited by the clock, not by units. It ends at midnight.</li>
+          <li>Set the homepage deal bar to the banner line above, with the countdown running to midnight.</li>
           <li>Add to the <em>Johnny's Daily Deals</em> collection, set the 24h countdown, publish at 09:00 HKT.</li>
           <li>Check every link routes to the deal PDP, not the parent listing.</li>
           <li>Unpublish at midnight. Do not leave it live the next morning.</li>
@@ -1121,6 +1142,9 @@ function renderFocus(){
       </div>
     </div>
   </div>`;
+
+  const bbtn=document.getElementById('banBtn');
+  if(bbtn) bbtn.addEventListener('click',()=>copyOut((b.banner||[]).join('\n'),'banCopied'));
 
   const dbtn=document.getElementById('descBtn');
   if(dbtn) dbtn.addEventListener('click',()=>copyOut(descText(b.desc),'descCopied'));
@@ -1152,6 +1176,8 @@ function renderFocus(){
       `Price:        ${b.price||'-'}`,
       `Compare at:   ${b.compare||'-'}`,
       `Hero image:   ${badgeSrc(id)}`,'',
+      'HOMEPAGE BANNER (site-wide deal bar, with the countdown and one button):',
+      (b.banner||['-']).join('\n'),'',
       'PRODUCT DESCRIPTION (paste into the PDP):',
       descText(b.desc),'',
       'Build steps:',
@@ -1159,9 +1185,10 @@ function renderFocus(){
       '2. Paste the product description above into the PDP body.',
       '3. Set the hero image above as the first image on the PDP.',
       '4. DO NOT CAP THE QUANTITY. Deals are limited by the clock, not by units. Ends at midnight.',
-      "5. Add to Johnny's Daily Deals, 24h countdown, publish 09:00 HKT.",
-      '6. Check every link routes to the deal PDP, not the parent listing.',
-      '7. Unpublish at midnight.'
+      '5. Set the homepage deal bar to the banner line above, countdown to midnight.',
+      "6. Add to Johnny's Daily Deals, 24h countdown, publish 09:00 HKT.",
+      '7. Check every link routes to the deal PDP, not the parent listing.',
+      '8. Unpublish at midnight.'
     ].join('\n');
     navigator.clipboard.writeText(txt).then(()=>{
       const c=document.getElementById('copied');c.classList.add('on');setTimeout(()=>c.classList.remove('on'),1800);
